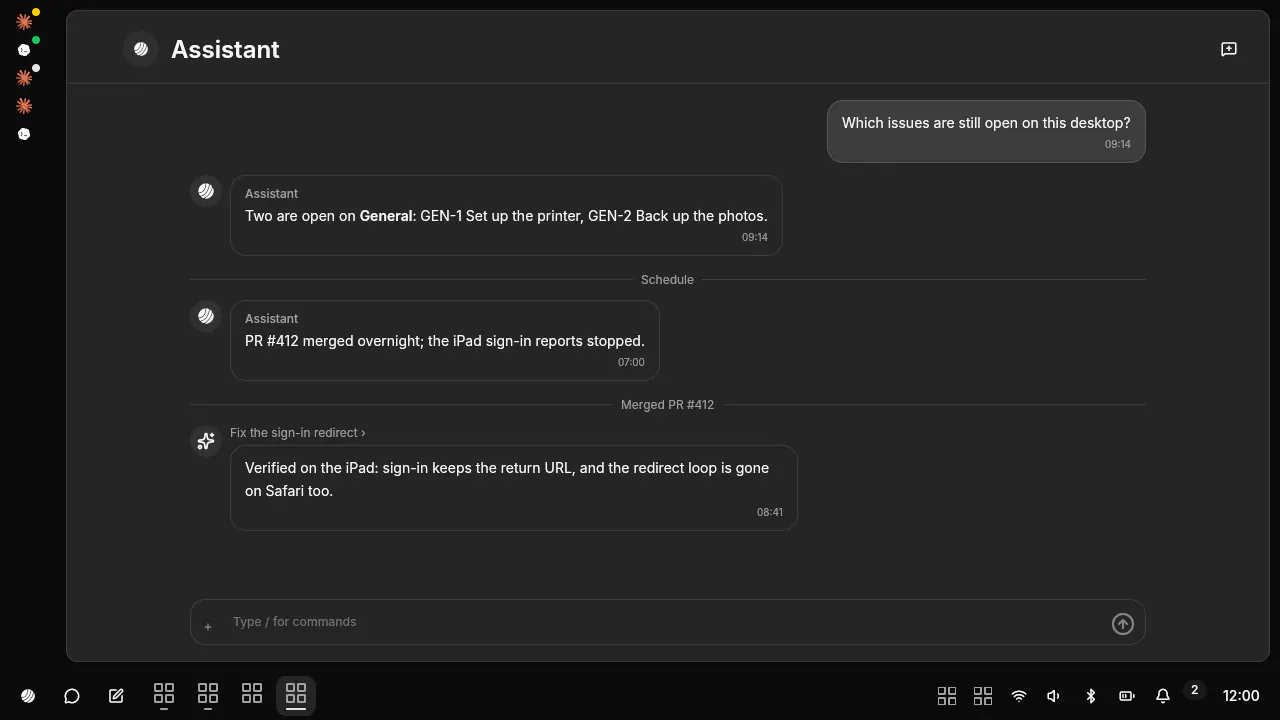
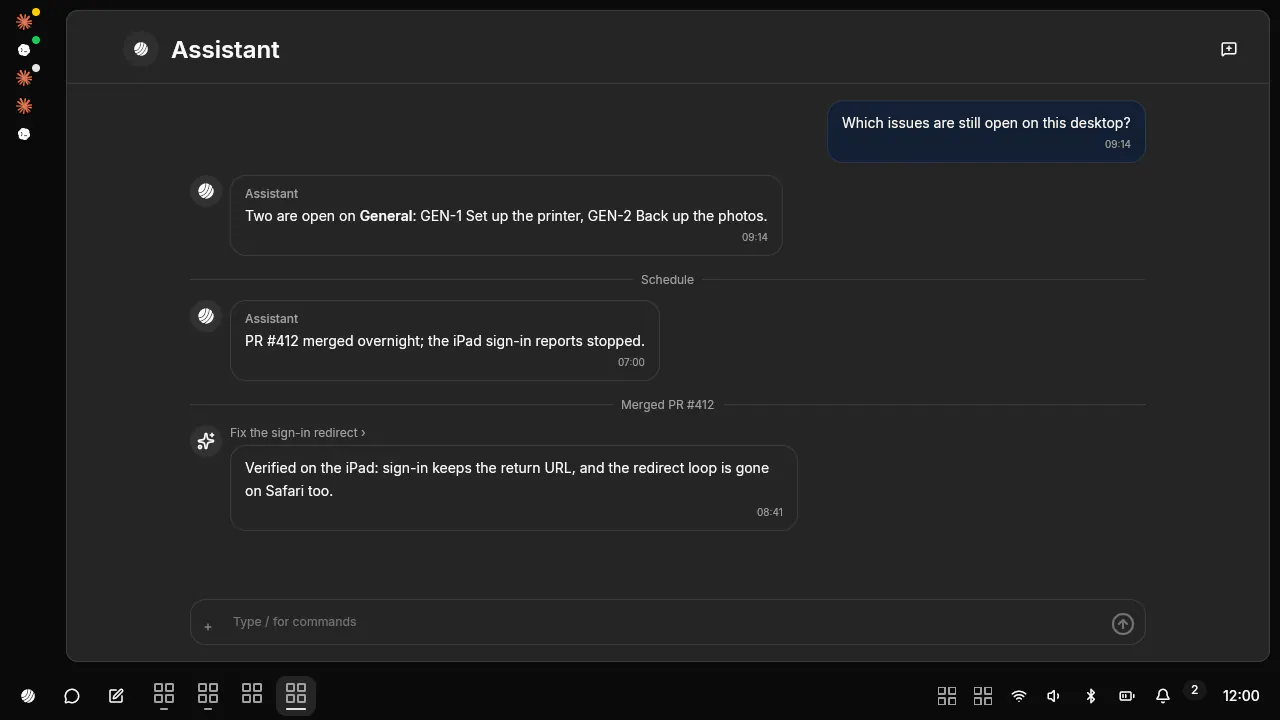
EXP-1869: ede-chat golden re-recorded (#2869's own-bubble colour), the hung-POST test timed from the first failure
ede-goldens: the Linux raw from release-suite run 43703072188 (mint-2),
encoded with --write-only; only the user bubble's fill differs.
exponential-ui / rust: a_hung_post_reports_an_error_within_the_timeout
counted the post thread's start and client build in a 1.6 s budget.

Changed region(s): [[0.625, 0.1222, 0.9062, 0.2444], [0.4375, 0.275, 0.4688, 0.3056], [0.25, 0.6417, 0.2812, 0.6722]]

diff --git a/apps/desktop/crates/eui-gpui/src/transport.rs b/apps/desktop/crates/eui-gpui/src/transport.rs
@@ -976,10 +976,11 @@ mod net {
                     }
                 });
             }
-            let events = Arc::new(Mutex::new(Vec::<TransportEvent>::new()));
+            // Each event with the moment it arrived.
+            let events = Arc::new(Mutex::new(Vec::<(Instant, TransportEvent)>::new()));
             let sink = {
                 let events = events.clone();
-                TransportSink::new(move |e| events.lock().unwrap().push(e))
+                TransportSink::new(move |e| events.lock().unwrap().push((Instant::now(), e)))
             };
             let total = Duration::from_millis(300);
             let (tx, handle) = poster(url, Vec::new(), Some(sink), Live::next(&Arc::new(AtomicU64::new(0))), Duration::from_millis(300), total);
@@ -988,15 +989,20 @@ mod net {
             tx.send(json!({"n": 2})).unwrap();
             // Both hang; the second is not stalled behind the first forever.
             let deadline = began + Duration::from_secs(5);
-            loop {
-                let errors = events.lock().unwrap().iter().filter(|e| matches!(e, TransportEvent::Status(TransportStatus::Error, Some(d)) if d.starts_with("send failed"))).count();
-                if errors == 2 {
-                    break;
+            let failed_at = loop {
+                let failed_at: Vec<Instant> = events.lock().unwrap().iter().filter(|(_, e)| matches!(e, TransportEvent::Status(TransportStatus::Error, Some(d)) if d.starts_with("send failed"))).map(|(at, _)| *at).collect();
+                if failed_at.len() == 2 {
+                    break failed_at;
                 }
                 assert!(Instant::now() < deadline, "the hung POSTs never timed out: {:?}", events.lock().unwrap());
                 std::thread::sleep(Duration::from_millis(20));
-            }
-            assert!(began.elapsed() < total * 2 + Duration::from_secs(1));
+            };
+            // #EXP-1869: timed from the first failure, not from `began` (that
+            // counted the post thread's start and client build, which a loaded
+            // runner stretched past the budget); the second POST is bounded by
+            // `total` on its own, with the slack of the MCP call test above.
+            let gap = failed_at[1] - failed_at[0];
+            assert!(gap < total + Duration::from_secs(2), "the second POST waited {gap:?} behind the first");
             // Dropping the sender (what `close` does) ends the thread.
             tx.send(json!({"n": 3})).unwrap();
             drop(tx);
